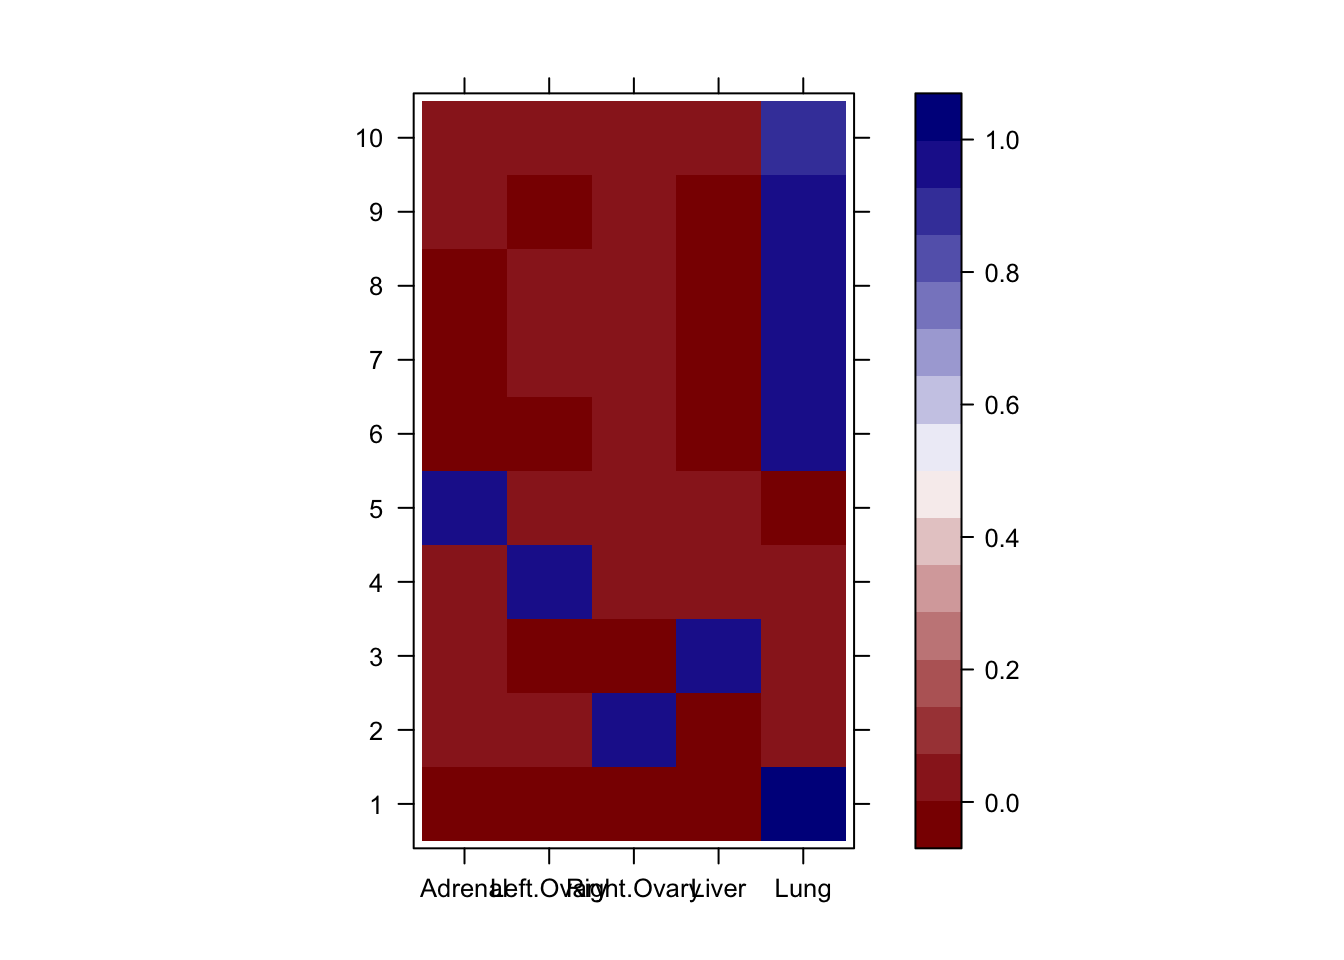
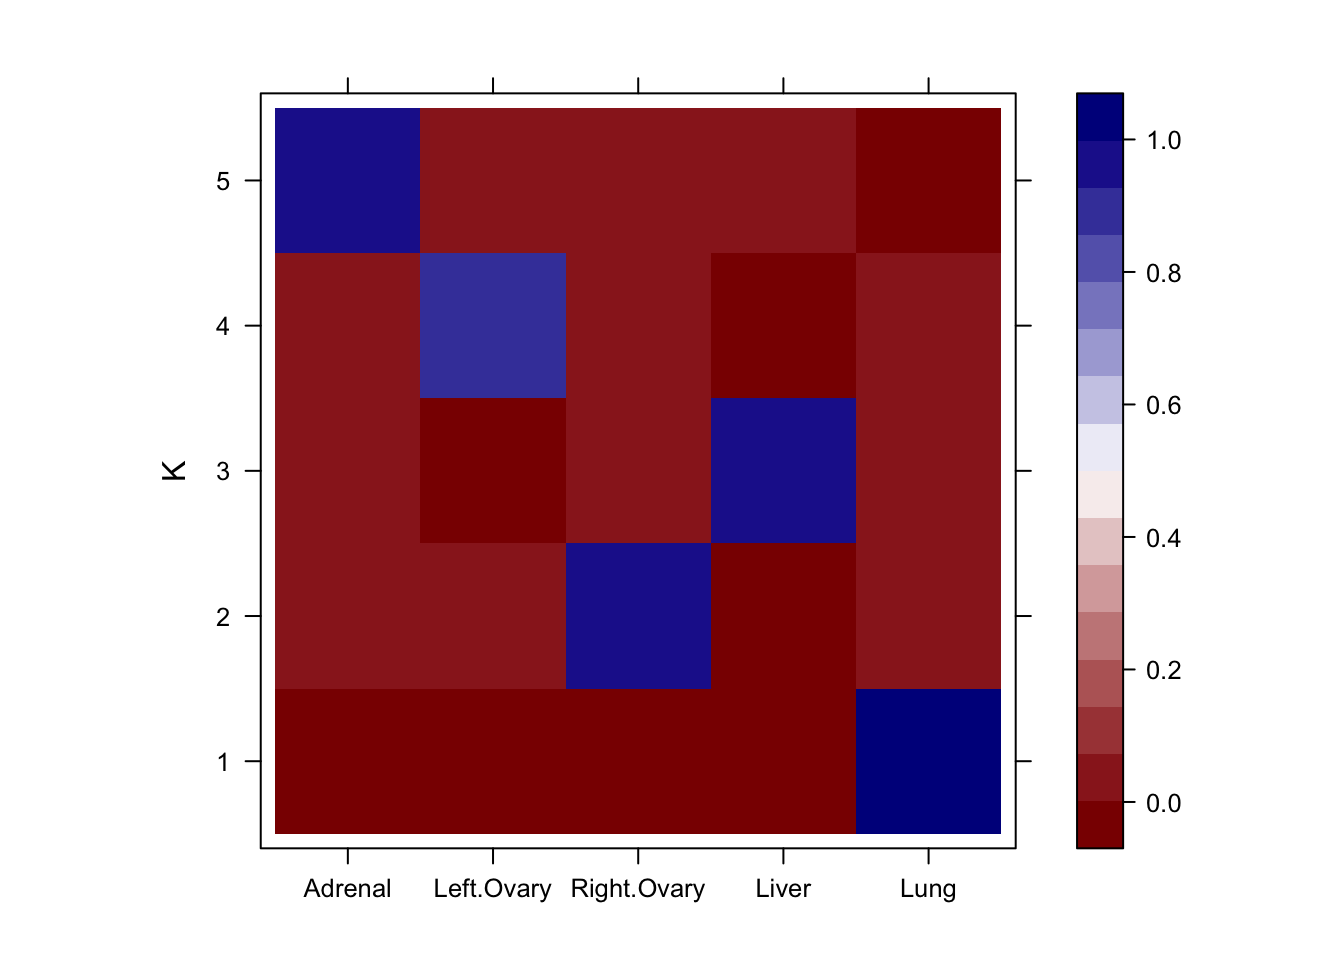
Updtate all figures

Changed region(s): [[0.125, 0.0938, 0.875, 0.9375]]

diff --git a/docs/Pearson.html b/docs/Pearson.html
@@ -346,7 +346,7 @@ div.section {
 </details>
 </li>
 <li>
-<p><details> <summary> <strong style="color:blue;">✔</strong> <strong>Repository version:</strong> <a href="https://github.com/surbut/myproject/tree/2f79c7e4f7894d71573ae7652ace9b19eab54e61" target="_blank">2f79c7e</a> </summary></p>
+<p><details> <summary> <strong style="color:blue;">✔</strong> <strong>Repository version:</strong> <a href="https://github.com/surbut/myproject/tree/cf77993478e756b1bca157049a2fcad2d30afa2b" target="_blank">cf77993</a> </summary></p>
 Great! You are using Git for version control. Tracking code development and connecting the code version to the results is critical for reproducibility. The version displayed above was the version of the Git repository at the time these results were generated. <br><br> Note that you need to be careful to ensure that all relevant files for the analysis have been committed to Git prior to generating the results (you can use <code>wflow_publish</code> or <code>wflow_git_commit</code>). workflowr only checks the R Markdown file, but you know if there are other scripts or data files that it depends on. Below is the status of the Git repository when the results were generated:
 <pre><code>
 Ignored files:
@@ -386,6 +386,40 @@ Message
 </tr>
 </thead>
 <tbody>
+<tr>
+<td style="text-align:left;">
+Rmd
+</td>
+<td style="text-align:left;">
+<a href="https://github.com/surbut/myproject/blob/cf77993478e756b1bca157049a2fcad2d30afa2b/analysis/Pearson.Rmd" target="_blank">cf77993</a>
+</td>
+<td style="text-align:left;">
+surbut
+</td>
+<td style="text-align:left;">
+2018-10-17
+</td>
+<td style="text-align:left;">
+Update with K=5
+</td>
+</tr>
+<tr>
+<td style="text-align:left;">
+html
+</td>
+<td style="text-align:left;">
+<a href="https://cdn.rawgit.com/surbut/myproject/cf77993478e756b1bca157049a2fcad2d30afa2b/docs/Pearson.html" target="_blank">cf77993</a>
+</td>
+<td style="text-align:left;">
+surbut
+</td>
+<td style="text-align:left;">
+2018-10-17
+</td>
+<td style="text-align:left;">
+Update with K=5
+</td>
+</tr>
 <tr>
 <td style="text-align:left;">
 html
@@ -734,7 +768,7 @@ surbut
 </tbody>
 </table>
 <p></details></p>
-<p>We extract the top clones driving each cluster using the ExtractTopFeatures functionality of the CountClust package. We first perform the cluster annotations from the GoM model fit with $k=10` on the clone data. We can see that some of the clusters have strong lung expression, and some have more tissue specific expression in adrenal, left ovary, liver or right ovary.</p>
+<p>We extract the top clones driving each cluster using the ExtractTopFeatures functionality of the CountClust package. We first perform the cluster annotations from the GoM model fit with <code>k=5</code> on the clone data. We can see that some of the clusters have strong lung expression, and some have more tissue specific expression in adrenal, left ovary, liver or right ovary.</p>
 <p><img src="figure/Pearson.Rmd/unnamed-chunk-5-1.png" width="672" style="display: block; margin: auto;" /></p>
 <details> <summary><em>Expand here to see past versions of unnamed-chunk-5-1.png:</em></summary>
 <table style="border-collapse:separate; border-spacing:5px;">
